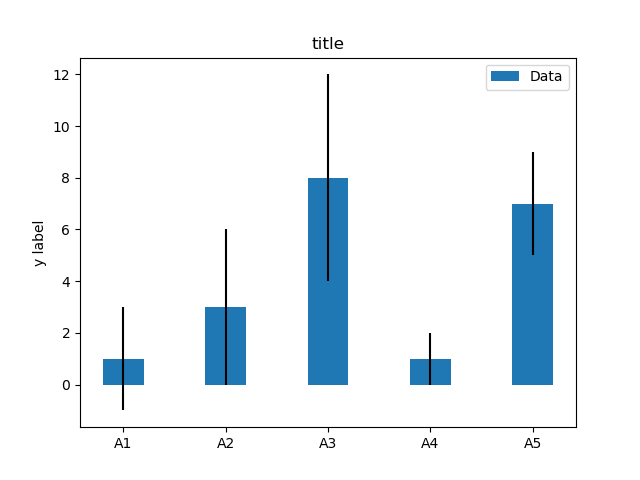
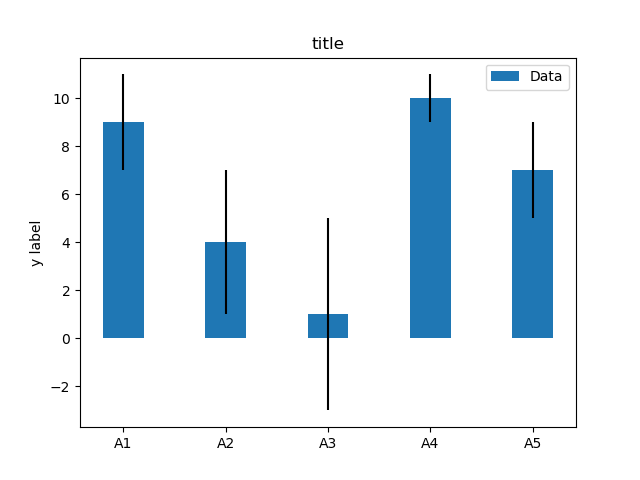
first commit

diff --git a/example.py b/example.py
@@ -2,7 +2,7 @@ import numpy as np
 import matplotlib.pyplot as plt
 
 labels = ['A1', 'A2', 'A3', 'A4', 'A5']
-m_means = [1,3,8,1,7]
+m_means = [9,4,1,10,7]
 m_std = [2, 3, 4, 1, 2]
 width = 0.40       # the width of the bars
 

diff --git a/README.md b/README.md
@@ -1,4 +1,4 @@
-# Matplotlib no 147 
+# Matplotlib no 148 
 
 python example
 
